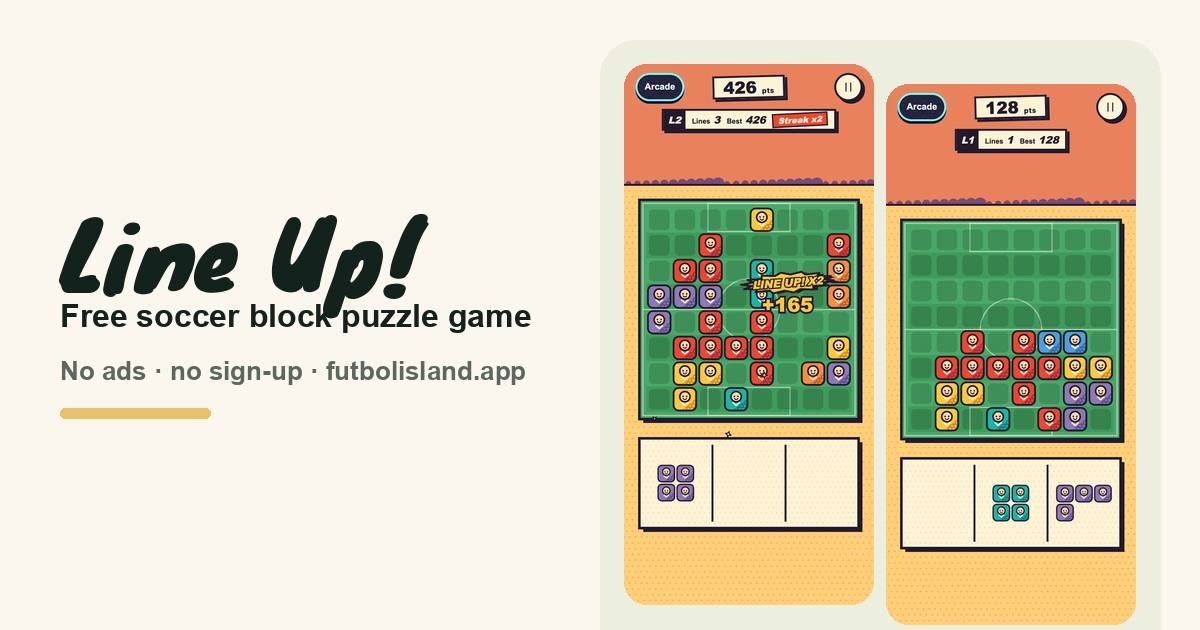
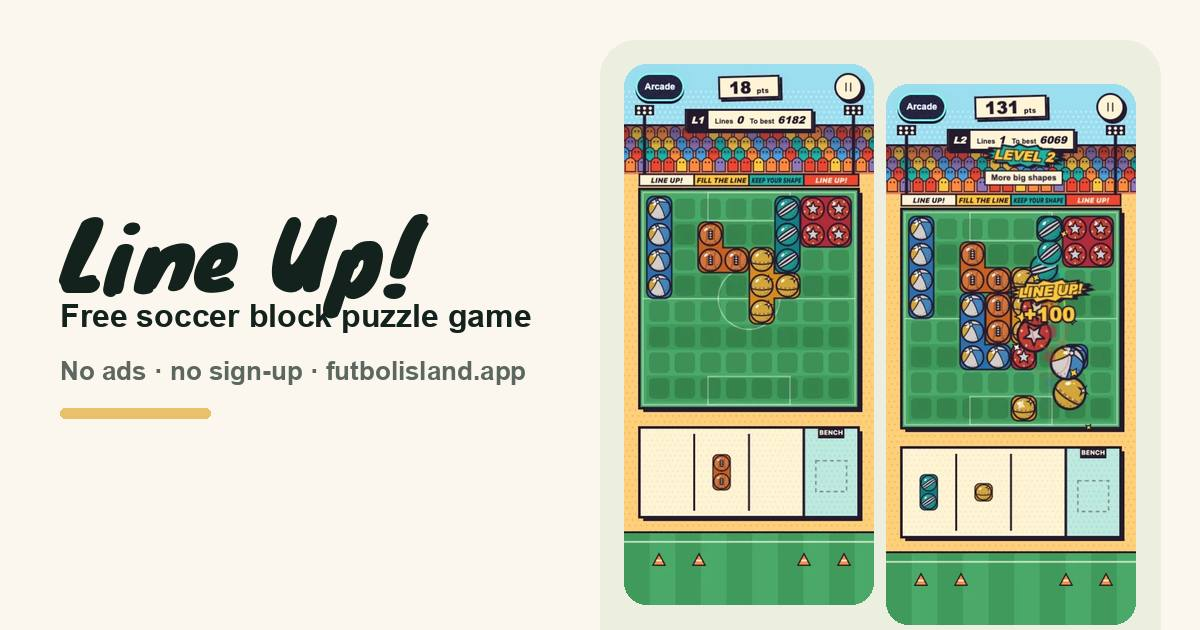
SEO leftovers: Line Up! and Trophy Drop share pictures re-made from the current game stills

Changed region(s): [[0.4933, 0.0905, 0.9558, 0.9952]]

diff --git a/docs/seo/build-game-images.py b/docs/seo/build-game-images.py
@@ -20,6 +20,8 @@ GAMES = [
  ('air-futbol-air-hockey-soccer-game', ['airhockey-phone', 'airhockey-goal'], ['air-futbol-air-hockey-soccer-game', 'air-futbol-goal-bank-shot'], 'Air Futbol', 'Free air hockey soccer game'),
  ('pass-puzzles-soccer-passing-puzzle-game', ['puzzle-phone', 'puzzle-endless'], ['pass-puzzles-soccer-passing-puzzle', 'pass-puzzles-endless-run'], 'Pass Puzzles', 'Free soccer passing puzzle game'),
  # Nov 17 2026: the three puzzle cabinets, shot from the running games on a 390x844 phone (DPR 2), like the others.
+ # Nov 20 2026: the two share pictures below were re-made after the Nov 18-19 visual pass from the current stills in public/games/shots
+ #  (lineup-1 + lineup-2, trophydrop-3 + trophydrop-2) with og() as it is here; docs/arcade-aaa/shots is not in the repo, so re-shoot there before a full re-run.
  ('line-up-soccer-block-puzzle-game', ['lineup-phone', 'lineup-clear'], ['line-up-soccer-block-puzzle-game', 'line-up-tray-of-three-shapes'], 'Line Up!', 'Free soccer block puzzle game'),
  ('trophy-drop-soccer-merge-game', ['trophydrop-phone', 'trophydrop-medal'], ['trophy-drop-soccer-merge-game', 'trophy-drop-medal-merge'], 'Trophy Drop', 'Free soccer merge game'),
  # Nov 17 2026: Roll It In, the rolling-ball puzzle, shot from real play (the scripted bot through the game's physics, frames stepped at 30 fps on a 390x844 phone).
